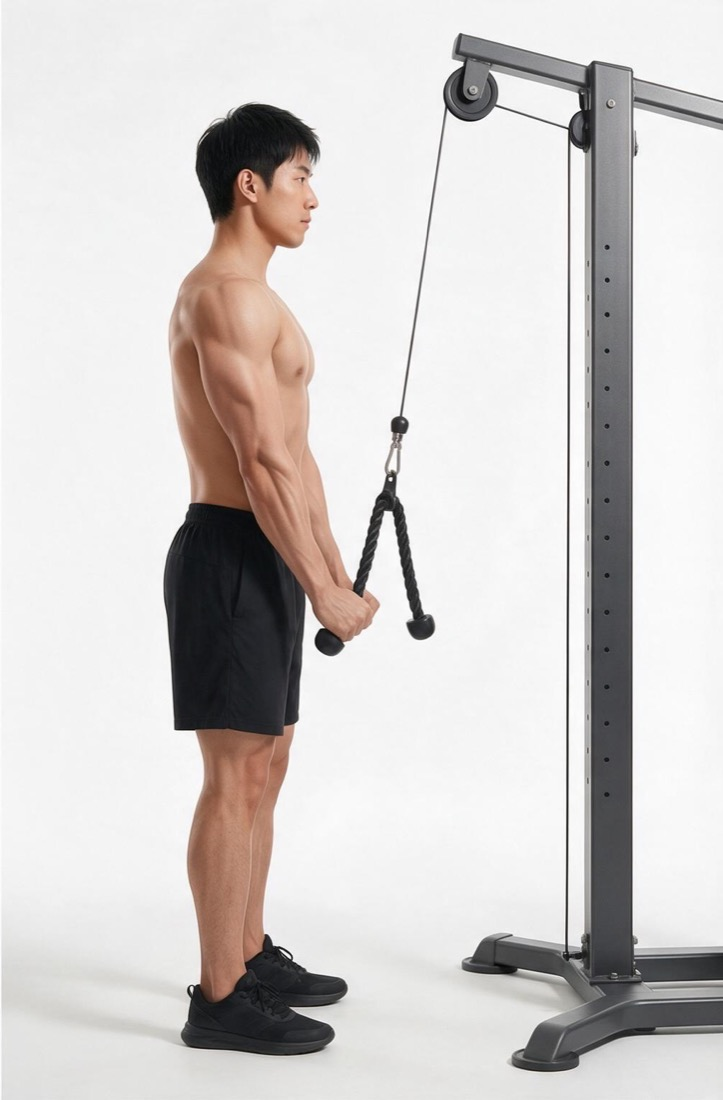
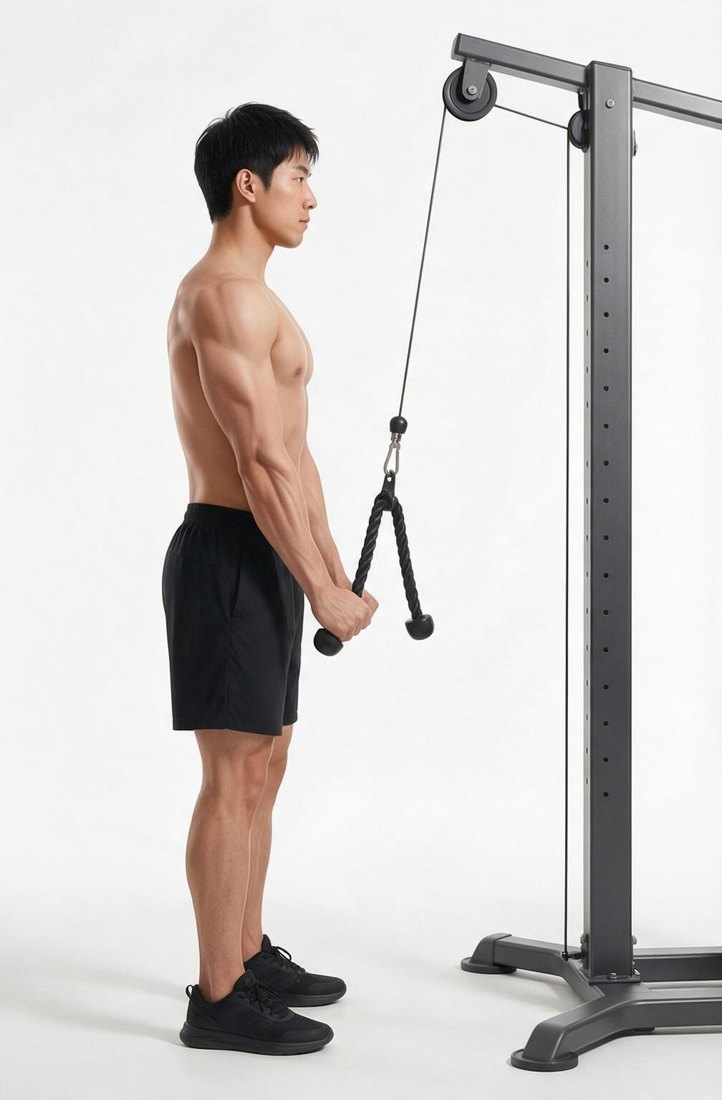
修正示范图裁切（按中缝切开），新增 9 个常用动作的 AI 示范图

diff --git a/index.html b/index.html
@@ -4,8 +4,8 @@
 <meta charset="UTF-8" />
 <meta name="viewport" content="width=device-width, initial-scale=1" />
 <title>肌理 · 健身写作助手</title>
-<link rel="stylesheet" href="styles.css?v=20261030j" />
-<link rel="stylesheet" href="styles-addon.css?v=20261030j" />
+<link rel="stylesheet" href="styles.css?v=20261030k" />
+<link rel="stylesheet" href="styles-addon.css?v=20261030k" />
 </head>
 <body>
 <header class="top">
@@ -164,23 +164,23 @@
 </main>
 
 <script src="https://cdn.jsdelivr.net/npm/html2canvas@1.4.1/dist/html2canvas.min.js"></script>
-<script src="library.js?v=20261030j"></script>
-<script src="details.js?v=20261030j"></script>
-<script src="regions.js?v=20261030j"></script>
-<script src="body-shapes.js?v=20261030j"></script>
-<script src="muscle-map.js?v=20261030j"></script>
-<script src="move-meta.js?v=20261030j"></script>
-<script src="pose-engine.js?v=20261030j"></script>
-<script src="pose-lib.js?v=20261030j"></script>
-<script src="custom-moves.js?v=20261030j"></script>
-<script src="copy-data.js?v=20261030j"></script>
-<script src="copy.js?v=20261030j"></script>
-<script src="copy-douyin.js?v=20261030j"></script>
-<script src="app.js?v=20261030j"></script>
-<script src="writer.js?v=20261030j"></script>
-<script src="ai-images.js?v=20261030j"></script>
-<script src="poster.js?v=20261030j"></script>
-<script src="search.js?v=20261030j"></script>
-<script src="diet.js?v=20261030j"></script>
+<script src="library.js?v=20261030k"></script>
+<script src="details.js?v=20261030k"></script>
+<script src="regions.js?v=20261030k"></script>
+<script src="body-shapes.js?v=20261030k"></script>
+<script src="muscle-map.js?v=20261030k"></script>
+<script src="move-meta.js?v=20261030k"></script>
+<script src="pose-engine.js?v=20261030k"></script>
+<script src="pose-lib.js?v=20261030k"></script>
+<script src="custom-moves.js?v=20261030k"></script>
+<script src="copy-data.js?v=20261030k"></script>
+<script src="copy.js?v=20261030k"></script>
+<script src="copy-douyin.js?v=20261030k"></script>
+<script src="app.js?v=20261030k"></script>
+<script src="writer.js?v=20261030k"></script>
+<script src="ai-images.js?v=20261030k"></script>
+<script src="poster.js?v=20261030k"></script>
+<script src="search.js?v=20261030k"></script>
+<script src="diet.js?v=20261030k"></script>
 </body>
 </html>

diff --git a/ai-images.js b/ai-images.js
@@ -13,10 +13,10 @@ const AI_IMG = {
   "平板支撑": "plank"
 };
 
-const AI_READY = ["绳索下压"];
+const AI_READY = ["绳索下压", "杠铃深蹲", "哑铃卧推", "杠铃俯身划船", "高位下拉", "传统硬拉", "杠铃肩推", "杠铃弯举", "臀推", "平板支撑"];
 
 function aiPhotos(moveName) {
   const f = AI_IMG[moveName];
   if (!f || !AI_READY.includes(moveName)) return null;
-  return [`ai-img/${f}-a.jpg?v=2`, `ai-img/${f}-b.jpg?v=2`];
+  return [`ai-img/${f}-a.jpg?v=3`, `ai-img/${f}-b.jpg?v=3`];
 }

diff --git a/tools/gen_images.py b/tools/gen_images.py
@@ -1,14 +1,15 @@
 """生成讲解卡的 AI 示范图。密钥从环境变量 OPENAI_API_KEY / OPENAI_BASE_URL 读取，不写进代码。
 
-做法：以 free-exercise-db 的真人示范照片为参考图，保留动作姿势和器械结构，
-把人物和背景重画成统一画风（白背景、亚洲男性、光上身、黑短裤）。
-完成图同时参考真人完成照片和刚生成的起始图，保证是同一个人、同一台器械。
+做法：把 free-exercise-db 的真人示范照片（起始、完成两张）作为参考图，
+让模型在一张图里画出两个并排的画面（左起始/右完成，或上起始/下完成），再切开。
+这样两张图是同一个人、同一套器械，画风统一（白背景、亚洲男性、光上身、黑短裤）。
 
-用法：python3 tools/gen_images.py pushdown [--model doubao-seedream-5-0-pro]
+用法：python3 tools/gen_images.py squat [bench ...] [--model doubao-seedream-5-0-pro]
+      python3 tools/gen_images.py --list
 """
-import base64, json, os, sys, urllib.request, uuid
+import base64, json, os, subprocess, sys, urllib.request, uuid
 
-KEY = os.environ["OPENAI_API_KEY"]
+KEY = os.environ.get("OPENAI_API_KEY", "")
 BASE = os.environ.get("OPENAI_BASE_URL", "https://api.openai.com/v1").rstrip("/")
 ROOT = os.path.join(os.path.dirname(os.path.abspath(__file__)), "..")
 OUT = os.path.join(ROOT, "ai-img")
@@ -19,19 +20,87 @@ STYLE = ("Semi-realistic fitness instruction illustration, high-detail CG digita
          "Pure white seamless studio background, only a faint soft floor shadow, no gym clutter and no other people. "
          "One 25-year-old East Asian man, short black hair, clear handsome features, focused expression, shirtless, "
          "low body fat, well-defined but natural athletic muscles (not a bodybuilder), black athletic shorts, black sneakers. "
-         "Entire body and the full machine in frame, nothing cropped. Soft studio lighting. No text, no watermark, no logo.")
+         "Entire body and all equipment in frame, nothing cropped. Soft studio lighting. No text, no watermark, no logo.")
 
+# layout: lr = 左右两格（站姿动作），tb = 上下两格（躺、趴、坐着的横向动作）
 MOVES = {
     "pushdown": {
-        "ref": "Triceps_Pushdown_-_Rope_Attachment",
-        "machine": ("In each panel: the man stands on the left facing right toward a clean dark-grey cable tower on the right, very close, half a step away. "
-                    "A short arm at the top of the tower sticks out toward him, so the pulley is high above his head and EXACTLY above his hands; "
-                    "the cable drops PERFECTLY VERTICALLY (a straight plumb line, not slanted) from the pulley down to a black braided triceps rope "
-                    "with ball ends; he holds one rope strand in each hand."),
-        "a": ("Start of a triceps rope pushdown: upper arms pinned vertically to his sides, elbows bent 90 degrees, forearms horizontal, "
-              "both fists holding the rope at lower-chest height."),
-        "b": ("Finish: upper arms still pinned to his sides, elbows fully straightened, arms pointing straight down, BOTH fists still holding the rope, "
-              "one strand in each hand, fists in front of his upper thighs, rope ends spread slightly apart, cable still perfectly vertical, triceps contracted."),
+        "ref": "Triceps_Pushdown_-_Rope_Attachment", "layout": "lr",
+        "scene": ("The man stands on the left facing right toward a clean dark-grey cable tower on the right, very close, half a step away. "
+                  "A short arm at the top of the tower sticks out toward him, so the pulley is high above his head and EXACTLY above his hands; "
+                  "the cable drops PERFECTLY VERTICALLY from the pulley down to a black braided triceps rope with ball ends; he holds one rope strand in each hand."),
+        "a": "upper arms pinned vertically to his sides, elbows bent 90 degrees, forearms horizontal, both fists holding the rope at lower-chest height.",
+        "b": ("upper arms still pinned to his sides, elbows fully straightened, arms pointing straight down, BOTH fists still holding the rope, "
+              "fists in front of his upper thighs, rope ends spread slightly apart, triceps contracted."),
+    },
+    "squat": {
+        "ref": "Barbell_Squat", "layout": "lr",
+        "scene": ("Both panels use the exact same strict side profile view, the man faces right. An Olympic barbell with black bumper plates rests across his upper back BEHIND his neck, his face is in front of the bar; the bar is perfectly horizontal and level, seen end-on so the near plate covers the far plate; "
+                  "both hands gripping the bar just outside his shoulders. Feet flat, slightly wider than shoulder width. No squat rack."),
+        "a": "standing tall at the top of a back squat, hips and knees fully extended, chest up, eyes forward.",
+        "b": ("bottom of the back squat: hips pushed back and down until thighs are parallel to the floor, knees forward over the toes, "
+              "back straight and leaning forward about 40 degrees, heels flat on the floor, bar stays directly over the middle of the feet."),
+    },
+    "db-bench": {
+        "ref": "Dumbbell_Bench_Press", "layout": "tb",
+        "scene": ("Strict side view. A flat black weight bench runs horizontally across the panel; the man lies on his back on it, head on the right end, "
+                  "feet flat on the floor at the left end, knees bent. He holds one black hexagonal dumbbell in each hand."),
+        "a": "arms straight up, dumbbells pressed directly above his chest, elbows almost locked.",
+        "b": ("both dumbbells lowered to the same height, one on each side of his chest at nipple level, symmetrical, the far dumbbell mostly hidden behind his chest; "
+              "elbows bent about 90 degrees, slightly below bench level, tucked about 45 degrees from his torso, chest stretched. No dumbbell floats above him."),
+    },
+    "bb-row": {
+        "ref": "Bent_Over_Barbell_Row", "layout": "lr",
+        "scene": ("Strict side view, the man faces right. He holds an Olympic barbell with black bumper plates with an overhand grip, "
+                  "hinged forward at the hips about 45 degrees, back perfectly straight, knees slightly bent, feet hip-width apart."),
+        "a": "arms hanging straight down, barbell just below his knees.",
+        "b": "barbell pulled up to his lower ribs / belly button, elbows driven back behind his torso, shoulder blades squeezed, torso angle unchanged.",
+    },
+    "lat-pulldown": {
+        "ref": "Wide-Grip_Lat_Pulldown", "layout": "lr",
+        "scene": ("Three-quarter rear side view. The man sits on a dark-grey lat pulldown machine, thighs locked under the knee pads, "
+                  "gripping a long straight lat bar wider than shoulder width; the cable runs vertically up from the bar to a pulley at the top of the machine."),
+        "a": "arms fully extended overhead holding the bar, torso upright, slight lean back.",
+        "b": "bar pulled down to the top of his chest just under the chin, elbows driven down and back, chest lifted, lats clearly contracted.",
+    },
+    "deadlift": {
+        "ref": "Barbell_Deadlift", "layout": "lr",
+        "scene": ("Strict side view, the man faces right. An Olympic barbell with large black bumper plates sits on the floor over the middle of his feet, "
+                  "close to his shins; he grips it with both hands just outside his legs."),
+        "a": "setup at the bottom: hips hinged, knees bent, back flat, shoulders slightly in front of the bar, arms straight, bar on the floor.",
+        "b": "lockout at the top: standing tall, hips and knees fully extended, shoulders back, bar resting against the front of his thighs, no leaning back.",
+    },
+    "ohp": {
+        "ref": "Barbell_Shoulder_Press", "layout": "lr",
+        "scene": ("Strict side view, the man faces right, standing, feet hip-width apart. He holds an Olympic barbell with black bumper plates, "
+                  "hands slightly wider than his shoulders. Strict side profile view in both panels; the bar stays perfectly horizontal and level, seen end-on so the near plate covers the far plate. No rack."),
+        "a": "barbell resting at the front of his shoulders at collarbone height, forearms vertical, elbows slightly in front of the bar.",
+        "b": "barbell pressed straight overhead with arms fully extended, bar directly above the middle of his feet, head slightly through the arms, torso not leaning back.",
+    },
+    "bb-curl": {
+        "ref": "Barbell_Curl", "layout": "lr",
+        "scene": ("Strict side view, the man faces right, standing tall. He holds a straight barbell with small black plates using an underhand grip "
+                  "(palms facing forward), hands shoulder-width apart, upper arms pinned to his sides."),
+        "a": "arms fully extended, barbell hanging in front of his thighs.",
+        "b": "barbell curled up to chest height, forearms close to vertical, elbows still at his sides and not moving forward, biceps clearly contracted.",
+    },
+    "hip-thrust": {
+        "ref": "Barbell_Hip_Thrust", "layout": "tb",
+        "scene": ("Strict side view, the man's head is on the right. His upper back rests on the edge of a flat black bench placed on the right, "
+                  "feet flat on the floor on the left, knees bent. An Olympic barbell with black bumper plates and a thick foam pad lies across his hip crease, "
+                  "both hands holding the bar."),
+        "a": ("hips sunk LOW, buttocks only a few centimetres above the floor, torso sloping steeply down from the bench edge to the hips, "
+              "knees bent more than 90 degrees, bar resting on the hips near the floor."),
+        "b": ("hips driven up so shoulders, hips and knees form one straight horizontal line, shins vertical, knees at 90 degrees, "
+              "chin tucked, glutes squeezed, lower back not over-arched."),
+    },
+    "plank": {
+        "ref": "Plank", "layout": "tb",
+        "scene": "The man holds a forearm plank on a black yoga mat on the floor.",
+        "a": ("strict side view, head on the right: forearms on the mat with elbows directly under the shoulders, on his toes, "
+              "body in one straight line from head to heels, hips neither sagging nor raised."),
+        "b": ("the same forearm plank seen from a front three-quarter view slightly from above, showing the braced abs and shoulders, "
+              "body still in one straight line."),
     },
 }
 
@@ -61,7 +130,7 @@ def post(path, payload, images=None):
         with urllib.request.urlopen(req, timeout=300) as r:
             return json.loads(r.read())
     except urllib.error.HTTPError as e:
-        sys.exit(f"HTTP {e.code}: {e.read()[:500].decode(errors='ignore')}")
+        raise RuntimeError(f"HTTP {e.code}: {e.read()[:300].decode(errors='ignore')}")
 
 
 def save(resp, path):
@@ -71,31 +140,47 @@ def save(resp, path):
         f.write(data)
 
 
-def arg(flag, default):
-    return sys.argv[sys.argv.index(flag) + 1] if flag in sys.argv else default
+def build_prompt(m):
+    if m["layout"] == "lr":
+        grid, p1, p2 = "split exactly down the middle into a LEFT panel and a RIGHT panel of equal width", "LEFT panel (start)", "RIGHT panel (finish)"
+    else:
+        grid, p1, p2 = "split exactly across the middle into a TOP panel and a BOTTOM panel of equal height", "TOP panel (start)", "BOTTOM panel (finish)"
+    return ("The two reference photos show the start and the finish of the exercise; use them only for the poses, the equipment and "
+            "where the man is relative to the equipment. " + STYLE + f" A two-panel instructional image {grid}, separated by a thin empty white gap. "
+            "Both panels show the SAME man and the SAME identical equipment from the SAME camera angle and scale; only the movement phase differs. "
+            + m["scene"] + f" {p1}: " + m["a"] + f" {p2}: " + m["b"])
+
+
+def split(pair, name, layout):
+    """按画面里的白色中缝切开（sips 的偏移裁切不可靠，曾把两格中间切成一张）。需要 Pillow：
+    python3 -m venv /tmp/imgenv && /tmp/imgenv/bin/pip install pillow"""
+    py = os.environ.get("PIL_PYTHON", "/tmp/imgenv/bin/python")
+    subprocess.run([py, os.path.join(ROOT, "tools", "split_pairs.py"), pair, os.path.join(OUT, name), layout], check=True)
+
+
+def gen(name, model, tag=""):
+    m = MOVES[name]
+    size = "2048x1536" if m["layout"] == "lr" else "1536x2048"
+    pair = f"/tmp/{name}-pair{tag}.jpg"
+    save(post("/images/edits", {"model": model, "prompt": build_prompt(m), "size": size, "n": 1, "watermark": "false"},
+              [fetch_ref(m["ref"], 0), fetch_ref(m["ref"], 1)]), pair)
+    return pair
 
 
 def main():
-    """一次生成左右双拼图（左起始、右完成），再从中间切开，保证两张是同一个人、同一台器械。"""
-    import subprocess
-    name = sys.argv[1]
-    model = arg("--model", "doubao-seedream-5-0-pro")
-    m = MOVES[name]
+    if "--list" in sys.argv:
+        print("\n".join(MOVES)); return
+    model = sys.argv[sys.argv.index("--model") + 1] if "--model" in sys.argv else "doubao-seedream-5-0-pro"
+    names = [a for a in sys.argv[1:] if a in MOVES]
     os.makedirs(OUT, exist_ok=True)
-    prompt = ("Use the reference photo only for the exercise pose and how close he stands to the machine. " + STYLE +
-              " A two-panel instructional image split exactly down the middle into a LEFT panel and a RIGHT panel of equal width, "
-              "separated by a thin empty white gap. Both panels show the SAME man and the SAME identical equipment from the SAME camera angle, "
-              "same scale, same positions; only the movement phase differs. " + m["machine"] +
-              " LEFT panel: " + m["a"] + " RIGHT panel: " + m["b"])
-    pair = f"/tmp/{name}-pair.jpg"
-    save(post("/images/edits", {"model": model, "prompt": prompt, "size": "2048x1536", "n": 1, "watermark": "false"},
-              [fetch_ref(m["ref"], 0)]), pair)
-    for side, off in (("a", 0), ("b", 1038)):
-        out = os.path.join(OUT, f"{name}-{side}.jpg")
-        subprocess.run(["sips", "-s", "format", "jpeg", "-s", "formatOptions", "84", "-c", "1536", "1010",
-                        "--cropOffset", "0", str(off), pair, "--out", out], check=True, capture_output=True)
-        subprocess.run(["sips", "-Z", "1100", out], check=True, capture_output=True)
-        print(side, out)
+    for name in names:
+        try:
+            pair = gen(name, model)
+            print("双拼图", name, pair, flush=True)
+            if "--split" in sys.argv:
+                split(pair, name, MOVES[name]["layout"])
+        except Exception as e:
+            print("失败", name, e, flush=True)
 
 
 if __name__ == "__main__":

diff --git a/tools/split_pairs.py b/tools/split_pairs.py
@@ -1,0 +1,47 @@
+"""把双拼图从中缝切成起始、完成两张。先找画面中部最亮的白缝；切完检查切口上没有人物或器械。
+用法：/tmp/imgenv/bin/python tools/split_pairs.py pair.jpg 输出前缀 lr|tb"""
+import sys
+from PIL import Image, ImageOps
+
+
+def darkest(g, i, axis):
+    w, h = g.size
+    box = (i, 0, i + 1, h) if axis == "x" else (0, i, w, i + 1)
+    return g.crop(box).getextrema()[0]
+
+
+def find_gap(g, axis):
+    n = g.size[0 if axis == "x" else 1]
+    lo, hi = int(n * 0.40), int(n * 0.60)
+    vals = [(i, darkest(g, i, axis)) for i in range(lo, hi)]
+    top = max(v for _, v in vals)
+    runs, cur = [], []
+    for i, v in vals:
+        if v >= top - 6:
+            cur.append(i)
+        elif cur:
+            runs.append(cur); cur = []
+    if cur:
+        runs.append(cur)
+    best = max(runs, key=len)
+    return best[0], best[-1], top
+
+
+def main():
+    src, prefix, layout = sys.argv[1:4]
+    im = ImageOps.exif_transpose(Image.open(src)).convert("RGB")
+    g = im.convert("L")
+    axis = "x" if layout == "lr" else "y"
+    s, e, top = find_gap(g, axis)
+    w, h = im.size
+    pad = 2
+    boxes = ((0, 0, s - pad, h), (e + pad, 0, w, h)) if axis == "x" else ((0, 0, w, s - pad), (0, e + pad, w, h))
+    for side, box in zip("ab", boxes):
+        p = im.crop(box)
+        p.thumbnail((1100, 1100))
+        p.save(f"{prefix}-{side}.jpg", quality=86, optimize=True)
+    edge = [darkest(g, max(s - pad, 0) - 1, axis), darkest(g, min(e + pad, g.size[0 if axis == "x" else 1] - 1), axis)]
+    print(f"{prefix.split('/')[-1]:14} 缝 {s}-{e} 宽{e - s + 1} 缝亮度{top} 切口最暗{edge}")
+
+
+main()
